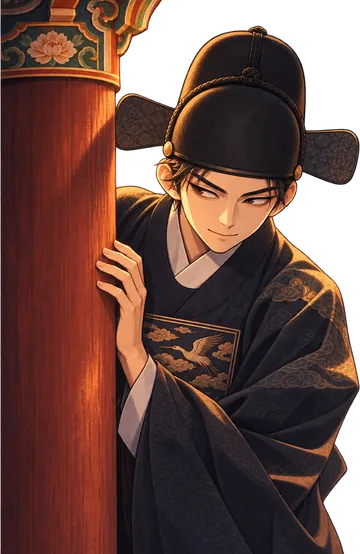
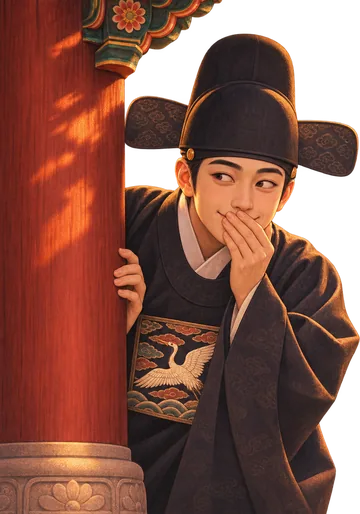
간신 그림을 입 가리고 엿보는 새 그림으로
Claude-Session: https://claude.ai/code/session_01VzNXFL6pKmRhG5PhFNw54P

diff --git a/jojeong/components/CourtBoard.tsx b/jojeong/components/CourtBoard.tsx
@@ -123,7 +123,7 @@ export default function CourtBoard({
 
         {/* 행각 기둥 뒤: 간신 */}
         <div className="relative mt-5 flex items-end gap-3 overflow-hidden rounded-lg bg-[#211b17]/85 pr-3 text-hanji">
-          <Image src="/king/gansin.webp" alt="행각 기둥 뒤에서 엿보는 간신" width={360} height={554} className="-mb-1 h-[104px] w-auto shrink-0" />
+          <Image src="/king/gansin.webp" alt="행각 기둥 뒤에서 엿보는 간신" width={360} height={514} className="-mb-1 h-[104px] w-auto shrink-0" />
           <p className="py-3 text-[14px] leading-snug">
             <b className="font-myeongjo text-[#f1d892]">간신</b> {names(gansin)}
             <span className="block text-[13px] text-hanji/80">
